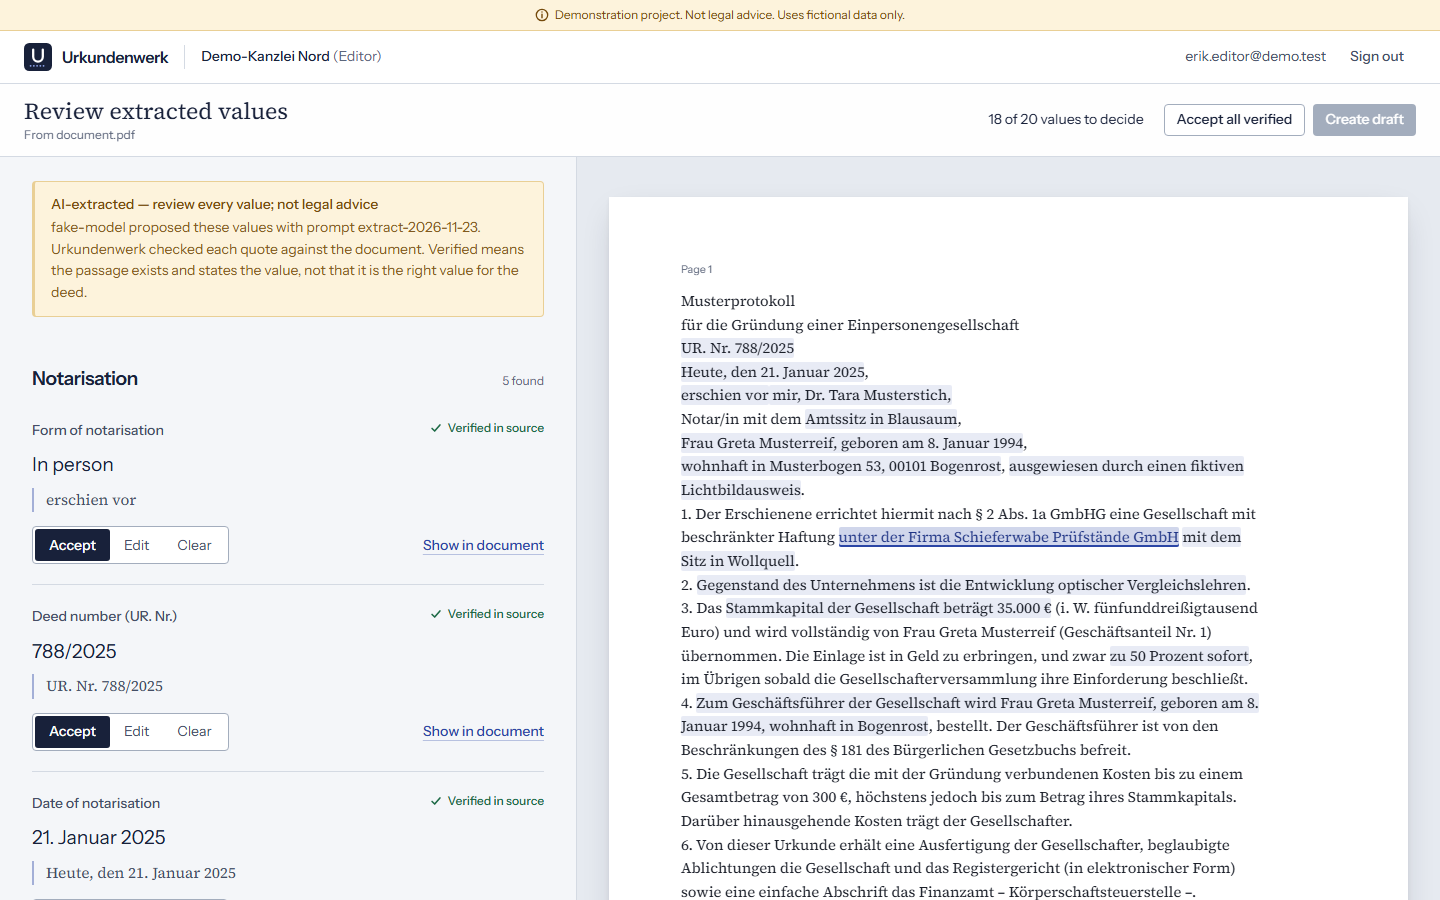
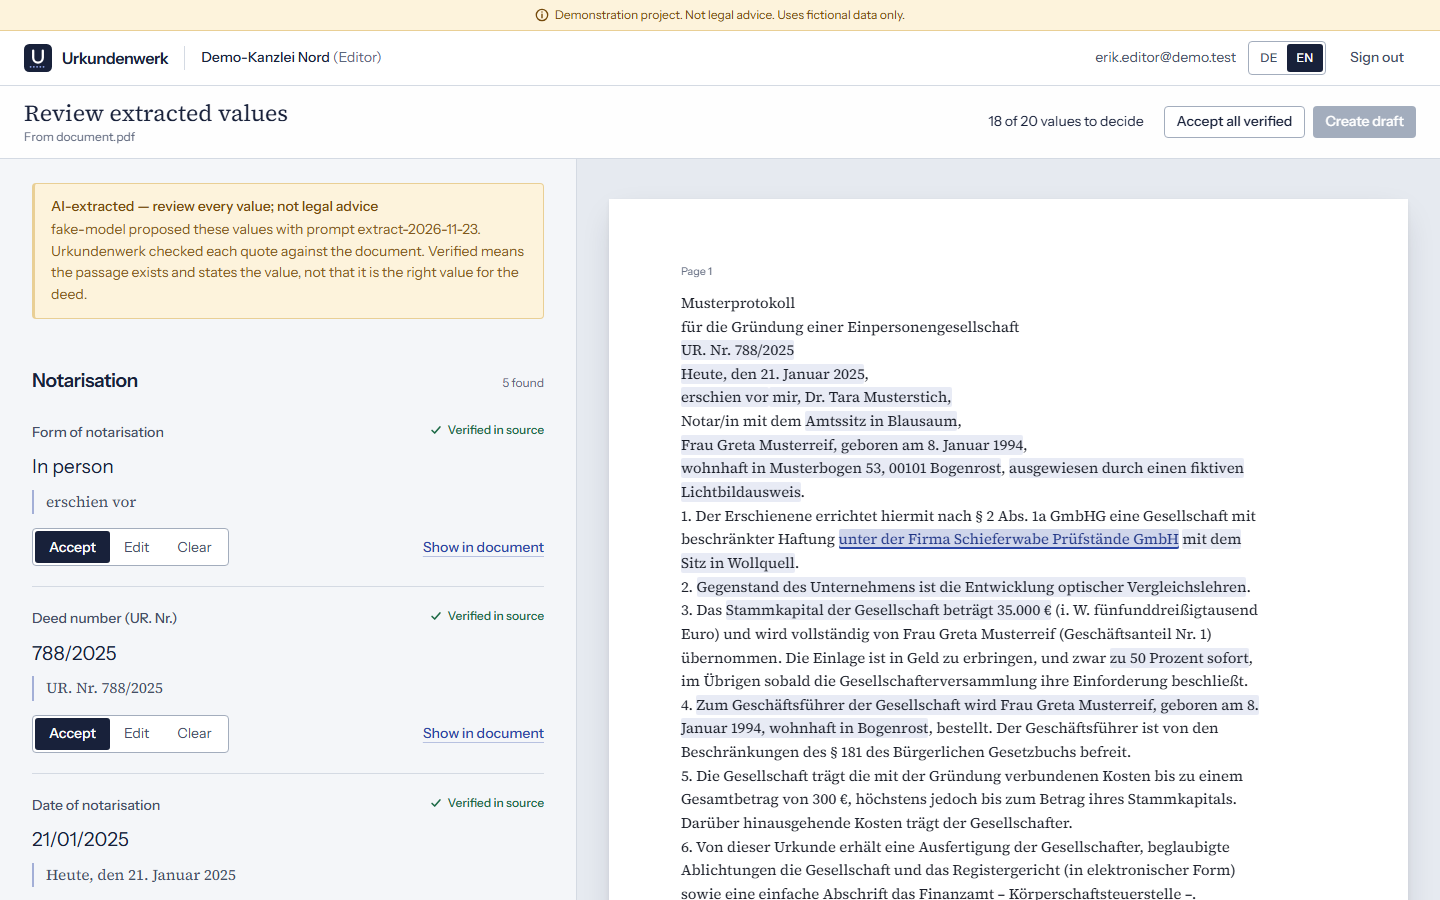
docs: record the UI languages and refresh the screenshots
Add ADR-0012 on the cookie-based locale, the language-neutral core,
localised rule messages, and locale-aware explanations. Add a Languages
section to the README, update the design notes, regenerate the English
screenshots, and add the German builder.

diff --git a/README.md b/README.md
@@ -36,7 +36,7 @@ data and can be downloaded as PDF or DOCX.
   field and in a **Checks** panel that links to the field. Errors block the
   download; warnings and notes do not.
 - **AI explanations, optional.** Any finding can be explained in plain
-  English by an LLM. The rules decide; the model only explains, and its
+  German or English, in the UI language, by an LLM. The rules decide; the model only explains, and its
   answers are labelled as AI-generated and not legal advice. See
   [AI and privacy](#ai-and-privacy).
 - **Import from a contract.** Upload an existing deed or articles of
@@ -54,6 +54,8 @@ data and can be downloaded as PDF or DOCX.
 - **PDF and DOCX exports.** A Node route handler validates the stored draft
   with the schema and the rules and returns the rendered file, or `422` with
   the paths and rule codes of the errors.
+- **German and English.** The whole interface is available in German and
+  English. See [Languages](#languages).
 - **Firms and roles.** Each firm sees only its own documents. Editors and
   admins write. Viewers get a read-only builder and can download. Members of
   several firms switch between them.
@@ -71,6 +73,25 @@ The design direction is recorded in [`docs/design.md`](docs/design.md).
 | Landing page                                  | Documents of a firm                              |
 | --------------------------------------------- | ------------------------------------------------ |
 | ![Landing page](docs/screenshots/landing.png) | ![Document list](docs/screenshots/dashboard.png) |
+
+## Languages
+
+The UI speaks German, in the terms a notary's office uses (Gesellschafter,
+Stammkapital, Einlage, UR-Nr., Registergericht), and English, which keeps
+the German terms of art with a short gloss. A DE | EN switch in the header
+changes the language at any time without losing typed input, and the
+choice is kept in a cookie. Without one, the browser's preferred language
+decides, and German is the default. URLs are the same in both languages.
+
+Dates and amounts follow the UI language: `07.03.1990` and `25.000 €` in
+German, `07/03/1990` and `€25,000` in English. Date fields accept the
+format they show and store ISO dates. AI explanations are written in the UI
+language. The generated Musterprotokoll, Handelsregisteranmeldung, and XML
+are always German. Rule checks in core carry stable codes and numeric
+params, and the web app words them in either language
+([ADR-0012](docs/adr/0012-ui-languages.md)).
+
+![The builder in German, with the form and the Prüfungen panel on the left and the deed preview on the right](docs/screenshots/builder-de.png)
 
 ## Roadmap
 
@@ -232,20 +253,20 @@ The model proposes; Urkundenwerk's code decides what is verified
 ### Explanations of rule findings
 
 The rule engine finds the issues. An LLM may then explain one in plain
-English, with a suggested fix. The model never decides whether data is
+German or English, whichever the UI uses, with a suggested fix. The model never decides whether data is
 valid.
 
 - **What is sent.** Only the rule code, its legal reference, the rule's
-  one-sentence summary, and the issue's params, which are numbers and
-  booleans such as amounts and limits. Names, dates of birth, addresses, the
+  one-sentence summary, the issue's params, which are numbers and booleans
+  such as amounts and limits, and the answer language (`de` or `en`). Names, dates of birth, addresses, the
   Firma, and other text from the draft have no field to travel in. A test
   checks the request for them.
 - **What comes back.** At most three sentences and a suggested fix per
   issue, checked against the asked-for codes. Anything else, and any failure,
-  falls back to the rule's own summary. The panel shows the model and the
-  prompt version.
+  falls back to the rule's own summary in the UI language. The panel shows
+  the model and the prompt version.
 - **Limits.** Only members of the document's firm can ask, ten times a
-  minute. Answers are cached by code, params, model, and prompt version.
+  minute. Answers are cached by code, params, language, model, and prompt version.
 
 ### Configuration
 
@@ -364,8 +385,9 @@ Claude models, use `--provider anthropic` (the default),
   They also sign in as members of two tenants and prove that reads, writes,
   role escalation, and anonymous access across tenants fail. Playwright covers
   sign-in, sign-up, the redirect for unauthenticated users, the builder for
-  editors and viewers, documents and exports across firms, and the contract
-  import with its review for editors and its refusal for viewers.
+  editors and viewers, documents and exports across firms, the contract
+  import with its review for editors and its refusal for viewers, and the
+  German UI with the language switch.
 
 ## How this project is built
 

diff --git a/docs/adr/0012-ui-languages.md b/docs/adr/0012-ui-languages.md
@@ -1,0 +1,74 @@
+# ADR-0012 · German and English UI with a cookie-based locale
+
+## Context
+
+Urkundenwerk is built for German law firms and notaries, but its UI was
+English only. The UI must work in German, in the terms of art of a notary's
+office, and in English, and users must be able to switch at any time
+without losing typed input. The documents themselves stay German: the
+statutory Musterprotokoll and the Handelsregisteranmeldung are German legal
+texts (ADR-0002, ADR-0004). Core rules must keep stable codes, because
+explanations, caches, the export route, and the MCP server rely on them
+(ADR-0006, ADR-0011).
+
+## Decision
+
+**Library.** The web app uses [next-intl](https://next-intl.dev) 4, which
+supports the App Router, Server Components, Server Actions, and Next.js 16
+with React 19 (its plugin configures Turbopack). `useTranslations` works in
+server and client components alike, ICU messages handle plurals and rich
+text, and the messages are typed. We use it without i18n routing.
+
+**Locale from a cookie, not the URL.** `src/i18n/request.ts` resolves the
+locale per request: the `uw-locale` cookie if it holds `de` or `en`, then
+the first supported language in `Accept-Language` by quality, then German.
+URLs stay as they are, so links, the proxy matcher, and the export route are
+unchanged. The root layout sets `<html lang>`. The switcher, DE | EN in the
+public header and the app shell, is a Server Action form: it works before
+hydration, and setting a cookie in a Server Action re-renders the current
+page while client state is kept, so unsaved builder input survives a
+switch. Pages that read the cookie render per request, which now includes
+the landing and sign-in pages.
+
+**Typed catalogues.** `src/i18n/messages/en.ts` is the reference catalogue
+and types the keys and ICU arguments of `useTranslations`.
+`de.ts` must have the same shape, which the compiler enforces. A test checks
+that both have the same keys, no empty messages, and the same ICU arguments.
+Server Actions and route handlers translate in the request's language, and
+validation schemas carry message keys instead of English sentences.
+
+**Language-neutral core.** Rule issues carry a code, params (numbers and
+booleans only), and paths. `src/i18n/rule-messages.ts` maps each code to a
+sentence in the UI language, choosing the wording from params and paths and
+formatting amounts with `Intl`. Legal references are shown as the rules
+state them. Core keeps its deterministic English `message` and `summary` for
+logs, API diagnostics, the MCP server, and the model prompt; the web UI does
+not show them. A test fails when a rule code has no message or summary in
+either language.
+
+**Locale-aware explanations.** `explainIssues` takes the locale. The system
+prompt asks for German in the formal register with the statutory terms, or
+for plain English, and the payload names the language. The cache key
+includes the locale, and the prompt version changed to
+`explain-2026-11-24`. Only the language code is added to the request, so no
+personal data can travel with it. When no model answers, the panel shows the
+rule's summary from the catalogue in the UI language.
+
+**Formats.** Dates, amounts, and times use `Intl` with `de-DE` or `en-GB`:
+`20.11.2026` and `25.000 €` in German, `20/11/2026` and `€25,000` in
+English, in German time. Date fields are text inputs that show and accept
+`TT.MM.JJJJ` or `DD/MM/YYYY` and store ISO dates, because the native date
+input follows the browser's locale and showed US dates to German users.
+Amount fields use the UI language's separators.
+
+## Consequences
+
+Every user-facing string lives in two catalogues, and adding a rule means
+adding its message and summary in both languages, or a test fails. English
+users type amounts as `25,000`; the deed and the exports keep German
+formatting in both languages. A document's default title is created in the
+creator's language and stays as created. Explanations are cached per
+language, so switching languages can cost one more model call per issue.
+More languages would need only another catalogue and an entry in `LOCALES`;
+the cookie approach would not give search engines a URL per language, which
+this authenticated tool does not need.

diff --git a/docs/design.md b/docs/design.md
@@ -32,9 +32,12 @@ response to the user, and it is skipped when reduced motion is preferred.
   a compact grotesque with clear figures for dates, deed numbers, and amounts.
 
 The scale is a 1.2 ratio from a 16 px body. Labels are sentence case and never
-set in all caps. German terms of art stay in German where they are the precise
-term, with a short English gloss: Firma (company name), Stammkapital (share
-capital), Geschäftsführer (managing director).
+set in all caps. The UI is German or English. German uses the terms of a
+notary's office and the formal „Sie“. English keeps German terms of art where
+they are the precise term, with a short gloss: Firma (company name),
+Stammkapital (share capital), Geschäftsführer (managing director). Dates and
+amounts follow the UI language (`07.03.1990`, `25.000 €` or `07/03/1990`,
+`€25,000`); the deed is always German.
 
 ## Colour
 
@@ -91,13 +94,22 @@ v4 `@theme`), so a dark theme can redefine them later.
   reason, its quote in the serif, and Accept, Edit, and Clear. The screen is
   headed "AI-extracted — review every value; not legal advice". On narrow
   screens a Values/Document toggle replaces the second pane.
+- **Language at hand.** A DE | EN control, drawn like the pane toggle with
+  the current language filled in ink, sits at the right of the app header,
+  in the top right corner of the landing page, and above the sign-in card.
+  Switching keeps everything typed. Layouts allow for German, which runs
+  about a third longer: toolbars and button rows wrap rather than overflow.
 - **One radius per role.** Controls use 4 px, panels 6 px, and the sheet has
   square corners because paper does.
 
 ## Accessibility
 
 Native inputs and radio groups, with labels, descriptions, hints, and errors
-linked through `aria-describedby`. Segmented controls are real radio groups.
+linked through `aria-describedby`. Date fields are text inputs whose format,
+`TT.MM.JJJJ` or `DD/MM/YYYY`, is their description, because native date
+pickers follow the browser's locale rather than the UI's. `<html lang>`
+follows the UI language, the deed preview is marked `lang="de"`, and blanks
+in it carry the UI language. Segmented controls are real radio groups.
 Values on the sheet are keyboard-focusable and named, for example "Missing:
 Sitz (registered seat)". Focus is always visible, and scrolling leaves room
 for the sticky toolbar. Viewers get a read-only form with a notice instead of
